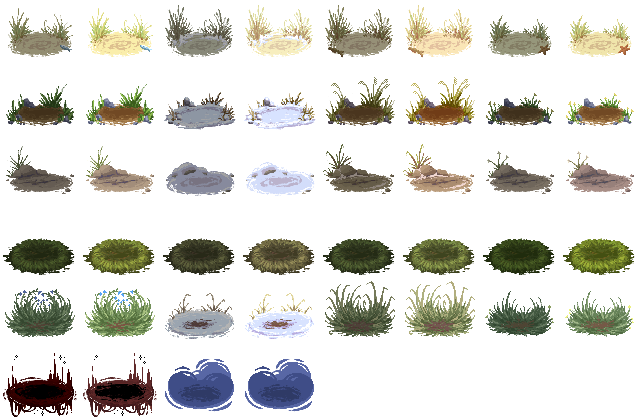
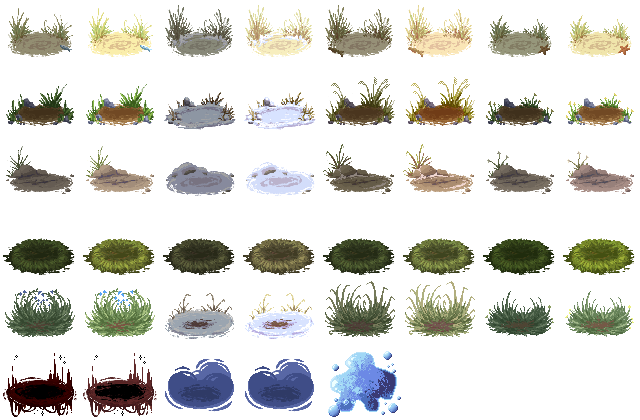
newborn

Changed region(s): [[0.5, 0.8357, 0.625, 0.9905]]

diff --git a/scripts/screens/ProfileScreen.py b/scripts/screens/ProfileScreen.py
@@ -2044,6 +2044,9 @@ class ProfileScreen(Screens):
         elif the_cat.dead or game.clan.instructor.ID == the_cat.ID:
             biome_platforms = platformsheet.subsurface(pygame.Rect(0, order.index('SC/DF') * 70, 640, 70))
             return pygame.transform.scale(biome_platforms.subsurface(pygame.Rect(160 + offset, 0, 80, 70)), (240, 210))
+        elif the_cat.status == "newborn":
+            biome_platforms = platformsheet.subsurface(pygame.Rect(0, order.index('SC/DF') * 70, 640, 70))
+            return pygame.transform.scale(biome_platforms.subsurface(pygame.Rect(320 + offset, 0, 80, 70)), (240, 210))
         else:
             biome_platforms = platformsheet.subsurface(pygame.Rect(0, order.index(biome) * 70, 640, 70)).convert_alpha()
             season_x = {
